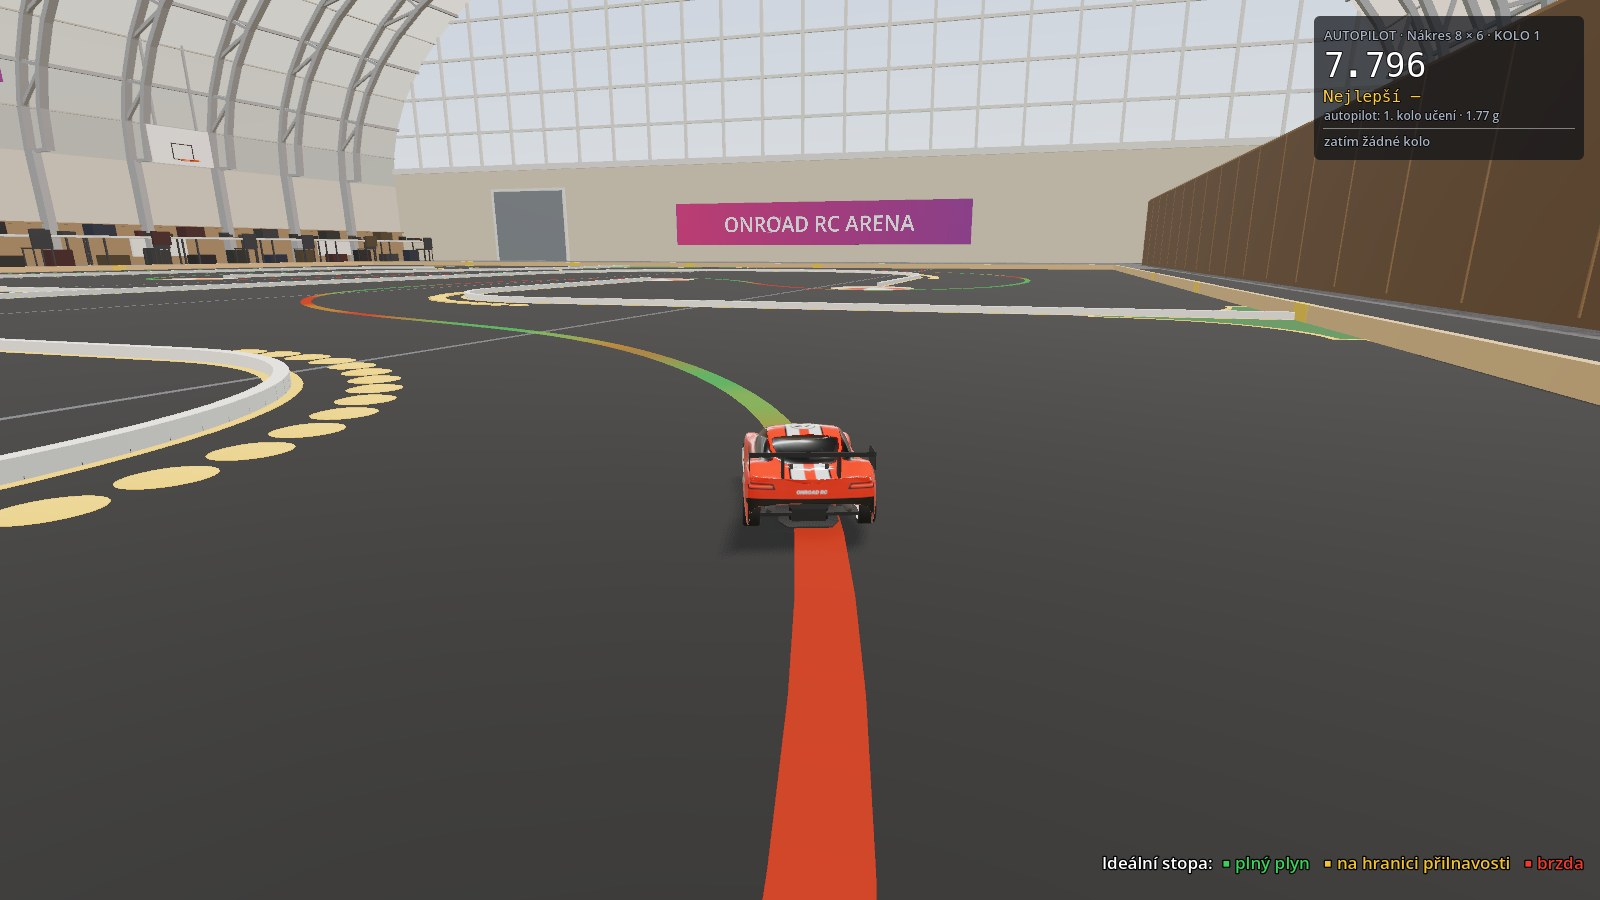
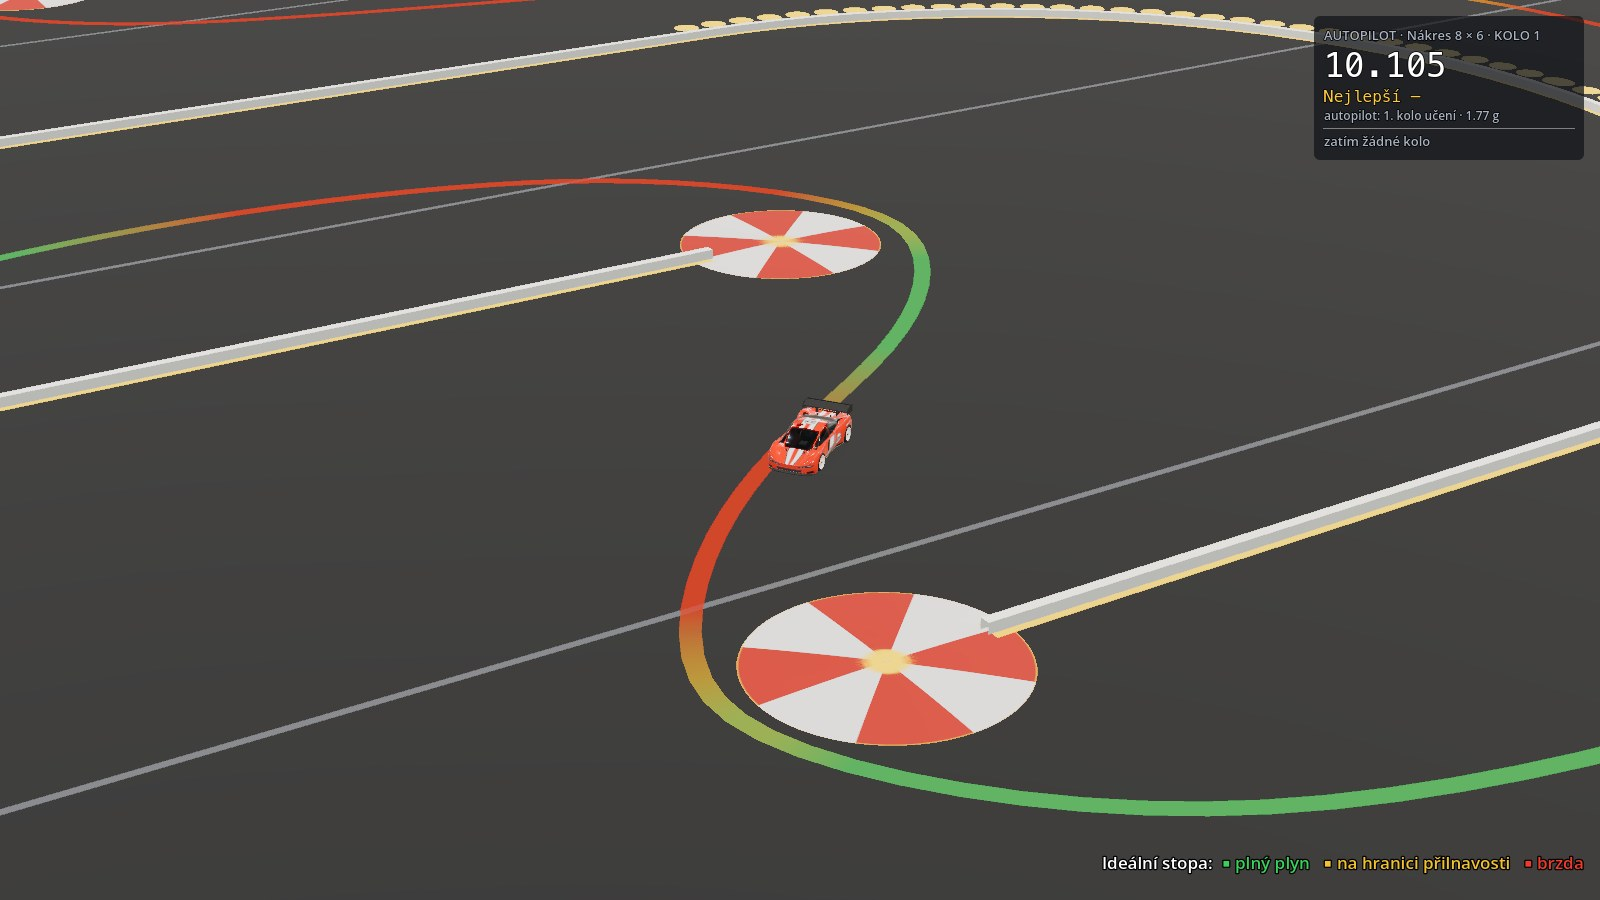
Oprava dvou snímků: výřez trati shora a hlavní obrázek z pódia

diff --git a/index.html b/index.html
@@ -208,7 +208,7 @@ footer .wrap { display: flex; flex-wrap: wrap; gap: 8px 24px; justify-content: s
 
   <div class="wrap">
     <figure class="shot">
-      <img src="img/chase.jpg" width="1600" height="900" alt="Red touring car on a carpet track in a sports hall, with the racing line colored green, yellow and red ahead of it">
+      <img src="img/chase.jpg" width="1600" height="900" alt="Red touring car seen from the driver stand, following the racing line colored green, yellow and red between dividers and red-and-white cones">
       <div class="racing-line" aria-hidden="true"></div>
       <figcaption>
         <span lang="cs">Ideální stopa na koberci:</span><span lang="en">Racing line on the carpet:</span>

diff --git a/src/page.html b/src/page.html
@@ -202,7 +202,7 @@ footer .wrap { display: flex; flex-wrap: wrap; gap: 8px 24px; justify-content: s
 
   <div class="wrap">
     <figure class="shot">
-      <img src="img/chase.jpg" width="1600" height="900" alt="Red touring car on a carpet track in a sports hall, with the racing line colored green, yellow and red ahead of it">
+      <img src="img/chase.jpg" width="1600" height="900" alt="Red touring car seen from the driver stand, following the racing line colored green, yellow and red between dividers and red-and-white cones">
       <div class="racing-line" aria-hidden="true"></div>
       <figcaption>
         <span lang="cs">Ideální stopa na koberci:</span><span lang="en">Racing line on the carpet:</span>
